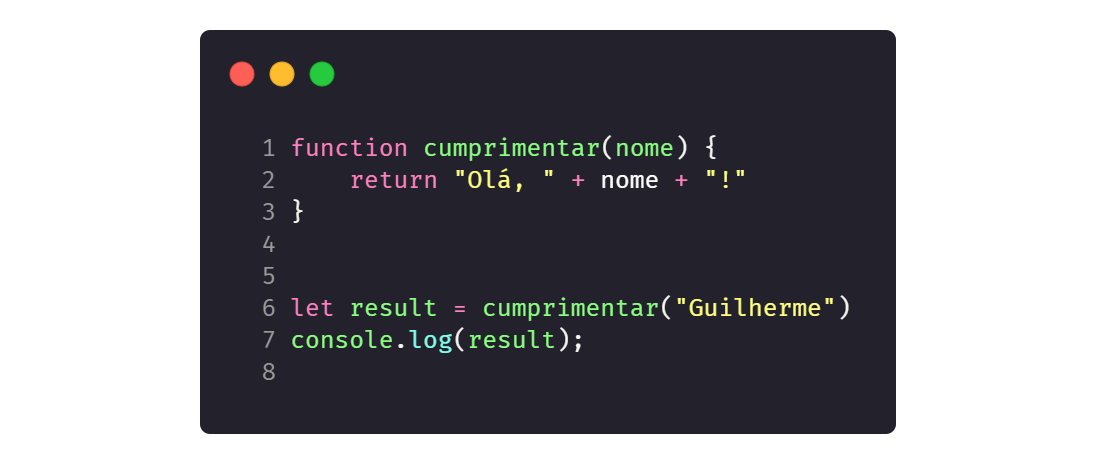
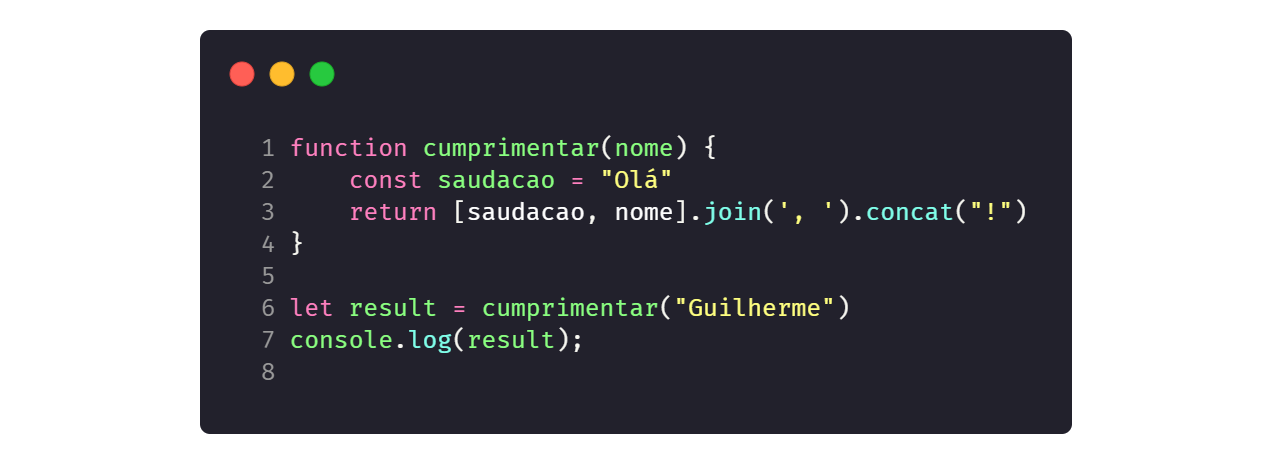
Atualizando :sparkles: Exercícios :pencil:

Changed region(s): [[0.1551, 0.0603, 0.7755, 0.9353], [0.6515, 0.0603, 0.8686, 0.9353]]

diff --git a/Exercícios JS/soluções/2/2_v2.js b/Exercícios JS/soluções/2/2_v2.js
@@ -1,0 +1,10 @@
+function converterIdadeEmAnosParaDias(idadeEmAnos) {
+    const diasDoAno = 365
+
+    return diasDoAno * idadeEmAnos
+}
+
+let result = converterIdadeEmAnosParaDias(25)
+console.log(result);
+result = converterIdadeEmAnosParaDias(70)
+console.log(result);

diff --git a/Exercícios JS/soluções/1/1_v2.js b/Exercícios JS/soluções/1/1_v2.js
@@ -1,7 +1,7 @@
 function cumprimentar(nome) {
-    return "Olá, " + nome + "!"
+    const saudacao = "Olá"
+    return [saudacao, nome].join(', ').concat("!")
 }
-
 
 let result = cumprimentar("Guilherme")
 console.log(result);

diff --git a/Exercícios JS/soluções/1/1.js b/Exercícios JS/soluções/1/1.js
@@ -1,6 +1,4 @@
-function cumprimentar(nome) {
-    return `Olá, ${nome}!`
-}
+const cumprimentar = s => `Olá, ${s}!`
 
 let result = cumprimentar("Guilherme")
 console.log(result);

diff --git a/Exercícios JS/soluções/1/1_v3.js b/Exercícios JS/soluções/1/1_v3.js
@@ -1,6 +1,7 @@
 function cumprimentar(nome) {
-    return `Olá, ${nome}!`
+    return "Olá, " + nome + "!"
 }
+
 
 let result = cumprimentar("Guilherme")
 console.log(result);

diff --git a/Exercícios JS/soluções/2/2.js b/Exercícios JS/soluções/2/2.js
@@ -1,0 +1,3 @@
+const converterIdadeEmAnosParaDias = dias => 365 * dias
+
+console.log(converterIdadeEmAnosParaDias(25))

diff --git a/Exercícios JS/README.md b/Exercícios JS/README.md
@@ -2,7 +2,7 @@
 
 ---
 
-1. Crie uma função que retorna a *string* "Olá", concatenada com um argumento *text* (a ser passado para a função) e com ponto de exclamação "!" no final. <br>
+1. Crie uma função que retorna a *string* "Olá", concatenada com um argumento *text* (a ser passado para a função) e com ponto de exclamação "!" no final.
     *Exemplos:*
     ```js
     cumprimentar("Guilherme") // retornará "Olá, Guilherme!"
@@ -13,7 +13,7 @@
 
     <strong>Método 1:</strong>
 
-    <a href="./soluções/1/1_v1.js"><img src="./soluções/1/1_v1.png" width="600" /><a>
+    <a href="./soluções/1/1.js"><img src="./soluções/1/1.png" width="600" /><a>
     
     <strong>Método 2:</strong>
 
@@ -39,10 +39,16 @@
     converterIdadeEmAnosParaDias(70) // retornará 9125
     ```
 
-    <details open>
+    <details closed>
 
     <summary><strong>Solução</strong></summary>
 
-    [![Solução 2](./soluções/2.png "Solução 2")](./soluções/2.js)
+    <strong>Método 1:</strong>
+
+    <a href="./soluções/2/2.js"><img src="./soluções/2/2.png" width="600" /><a>
+    
+    <strong>Método 2:</strong>
+
+    <a href="./soluções/2/2_v2.js"><img src="./soluções/2/2_v2.png" width="600" /><a>
 
     </details>
